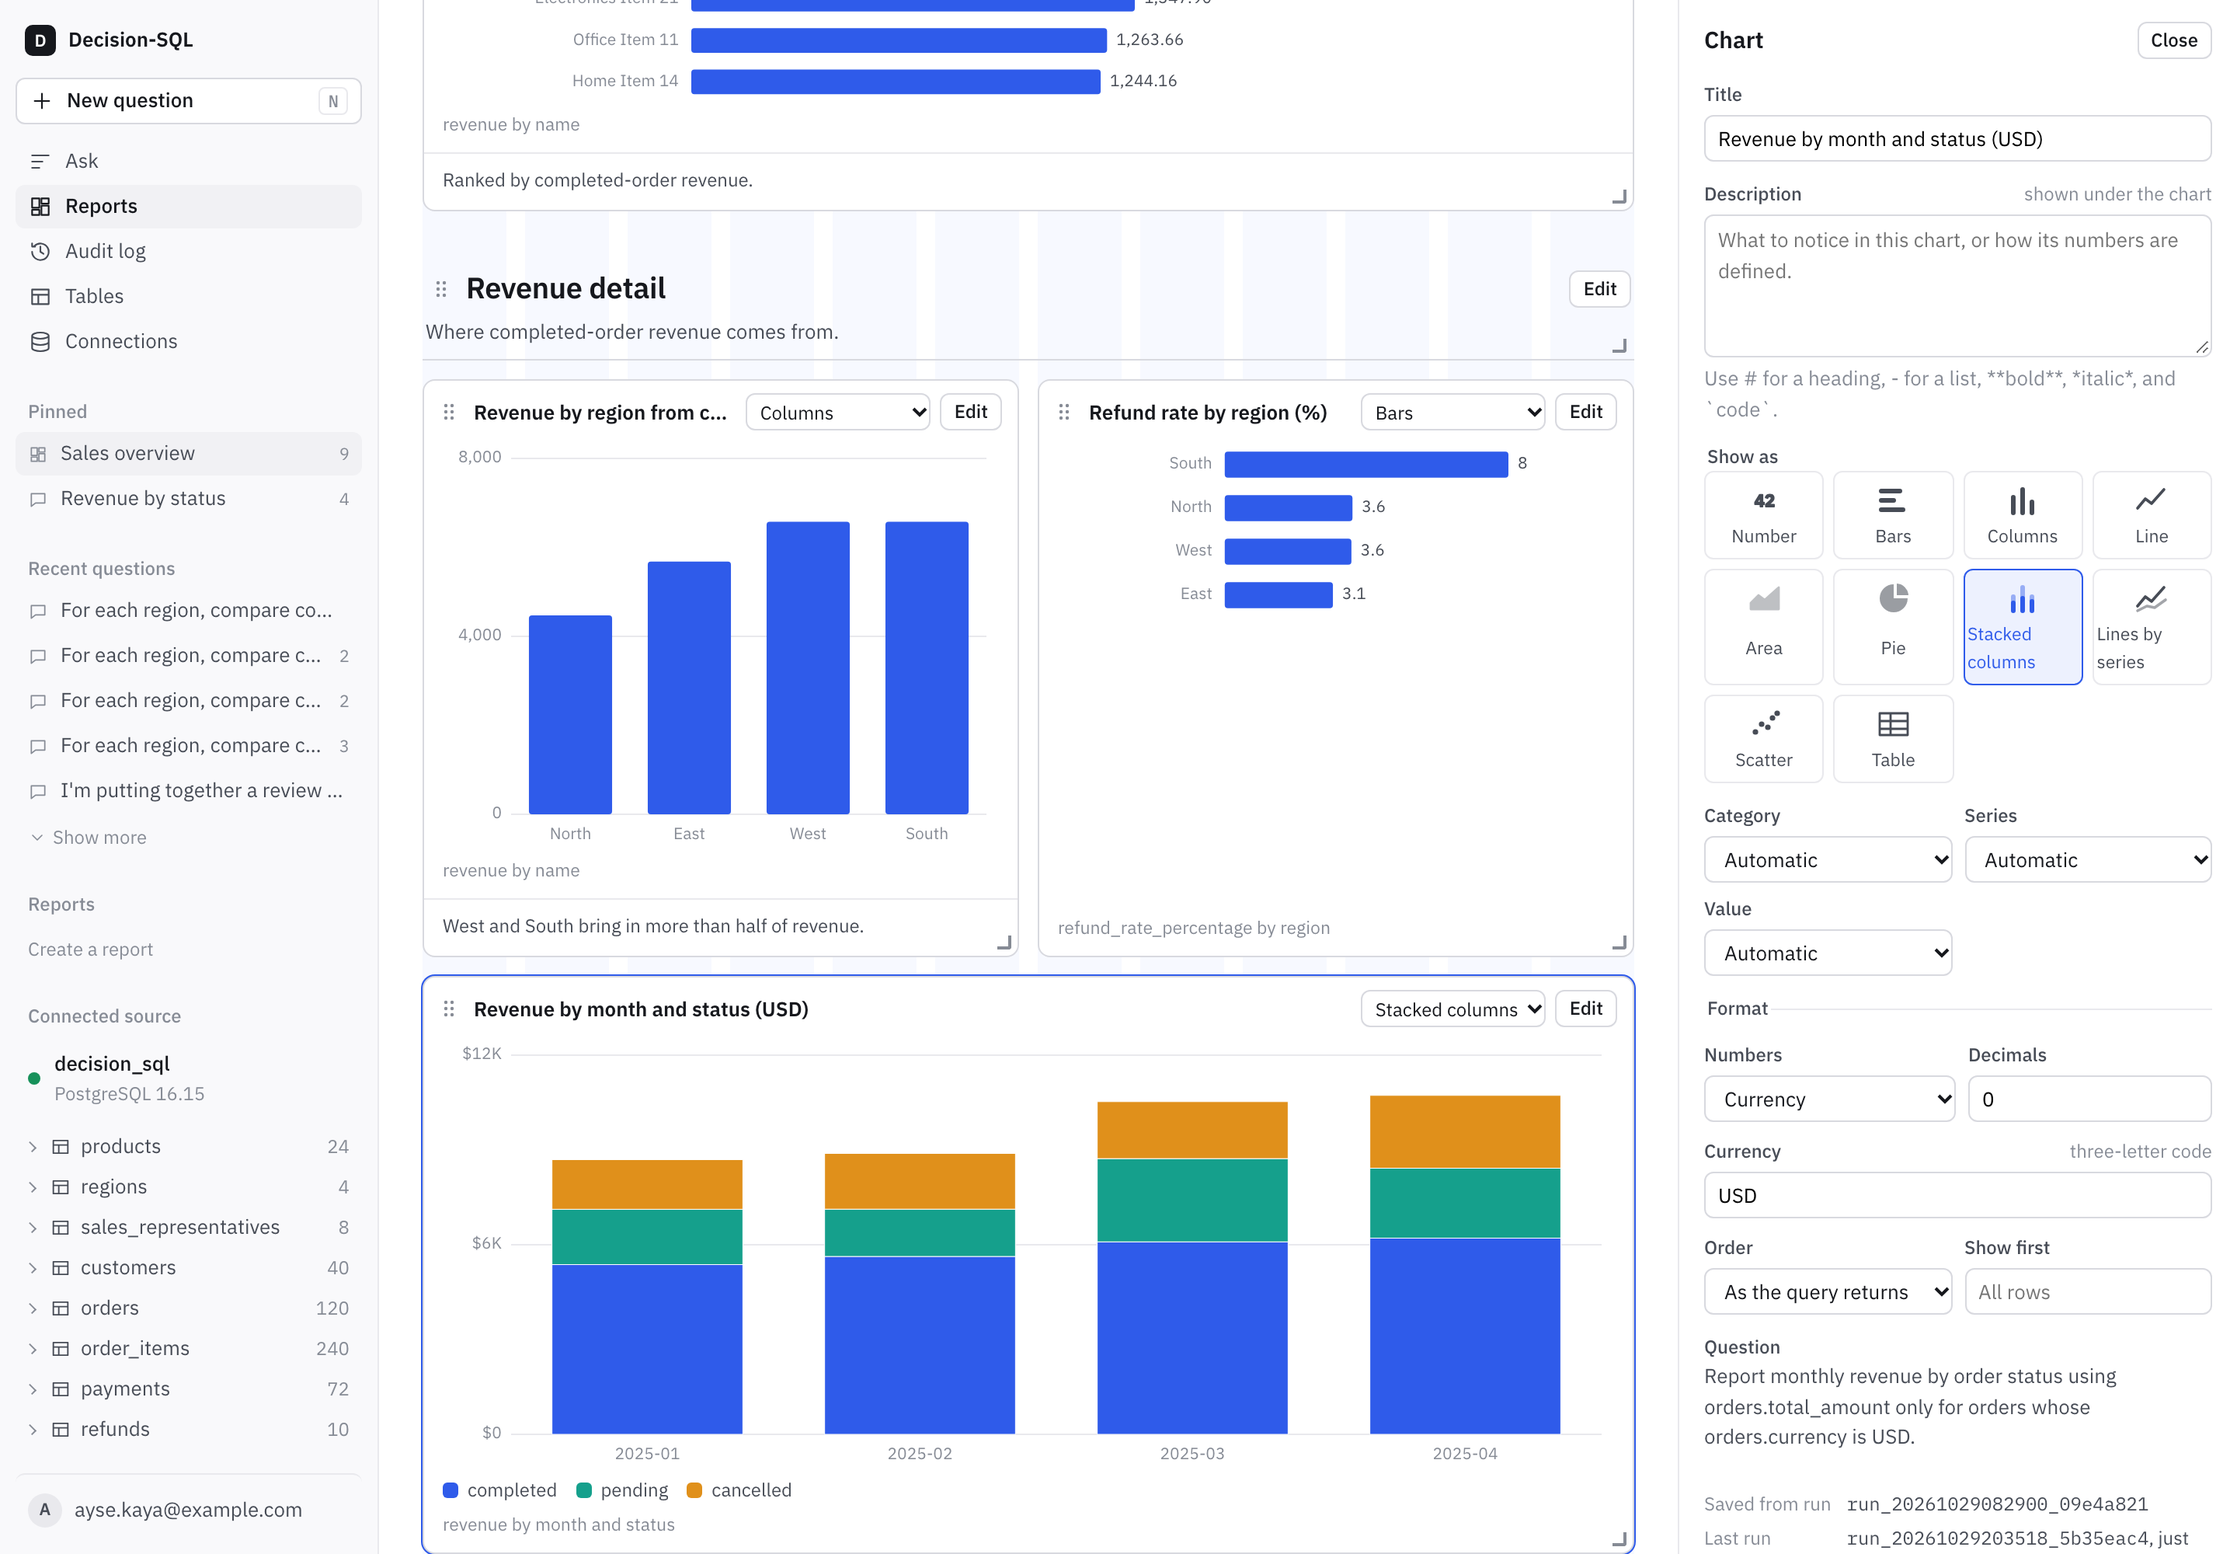
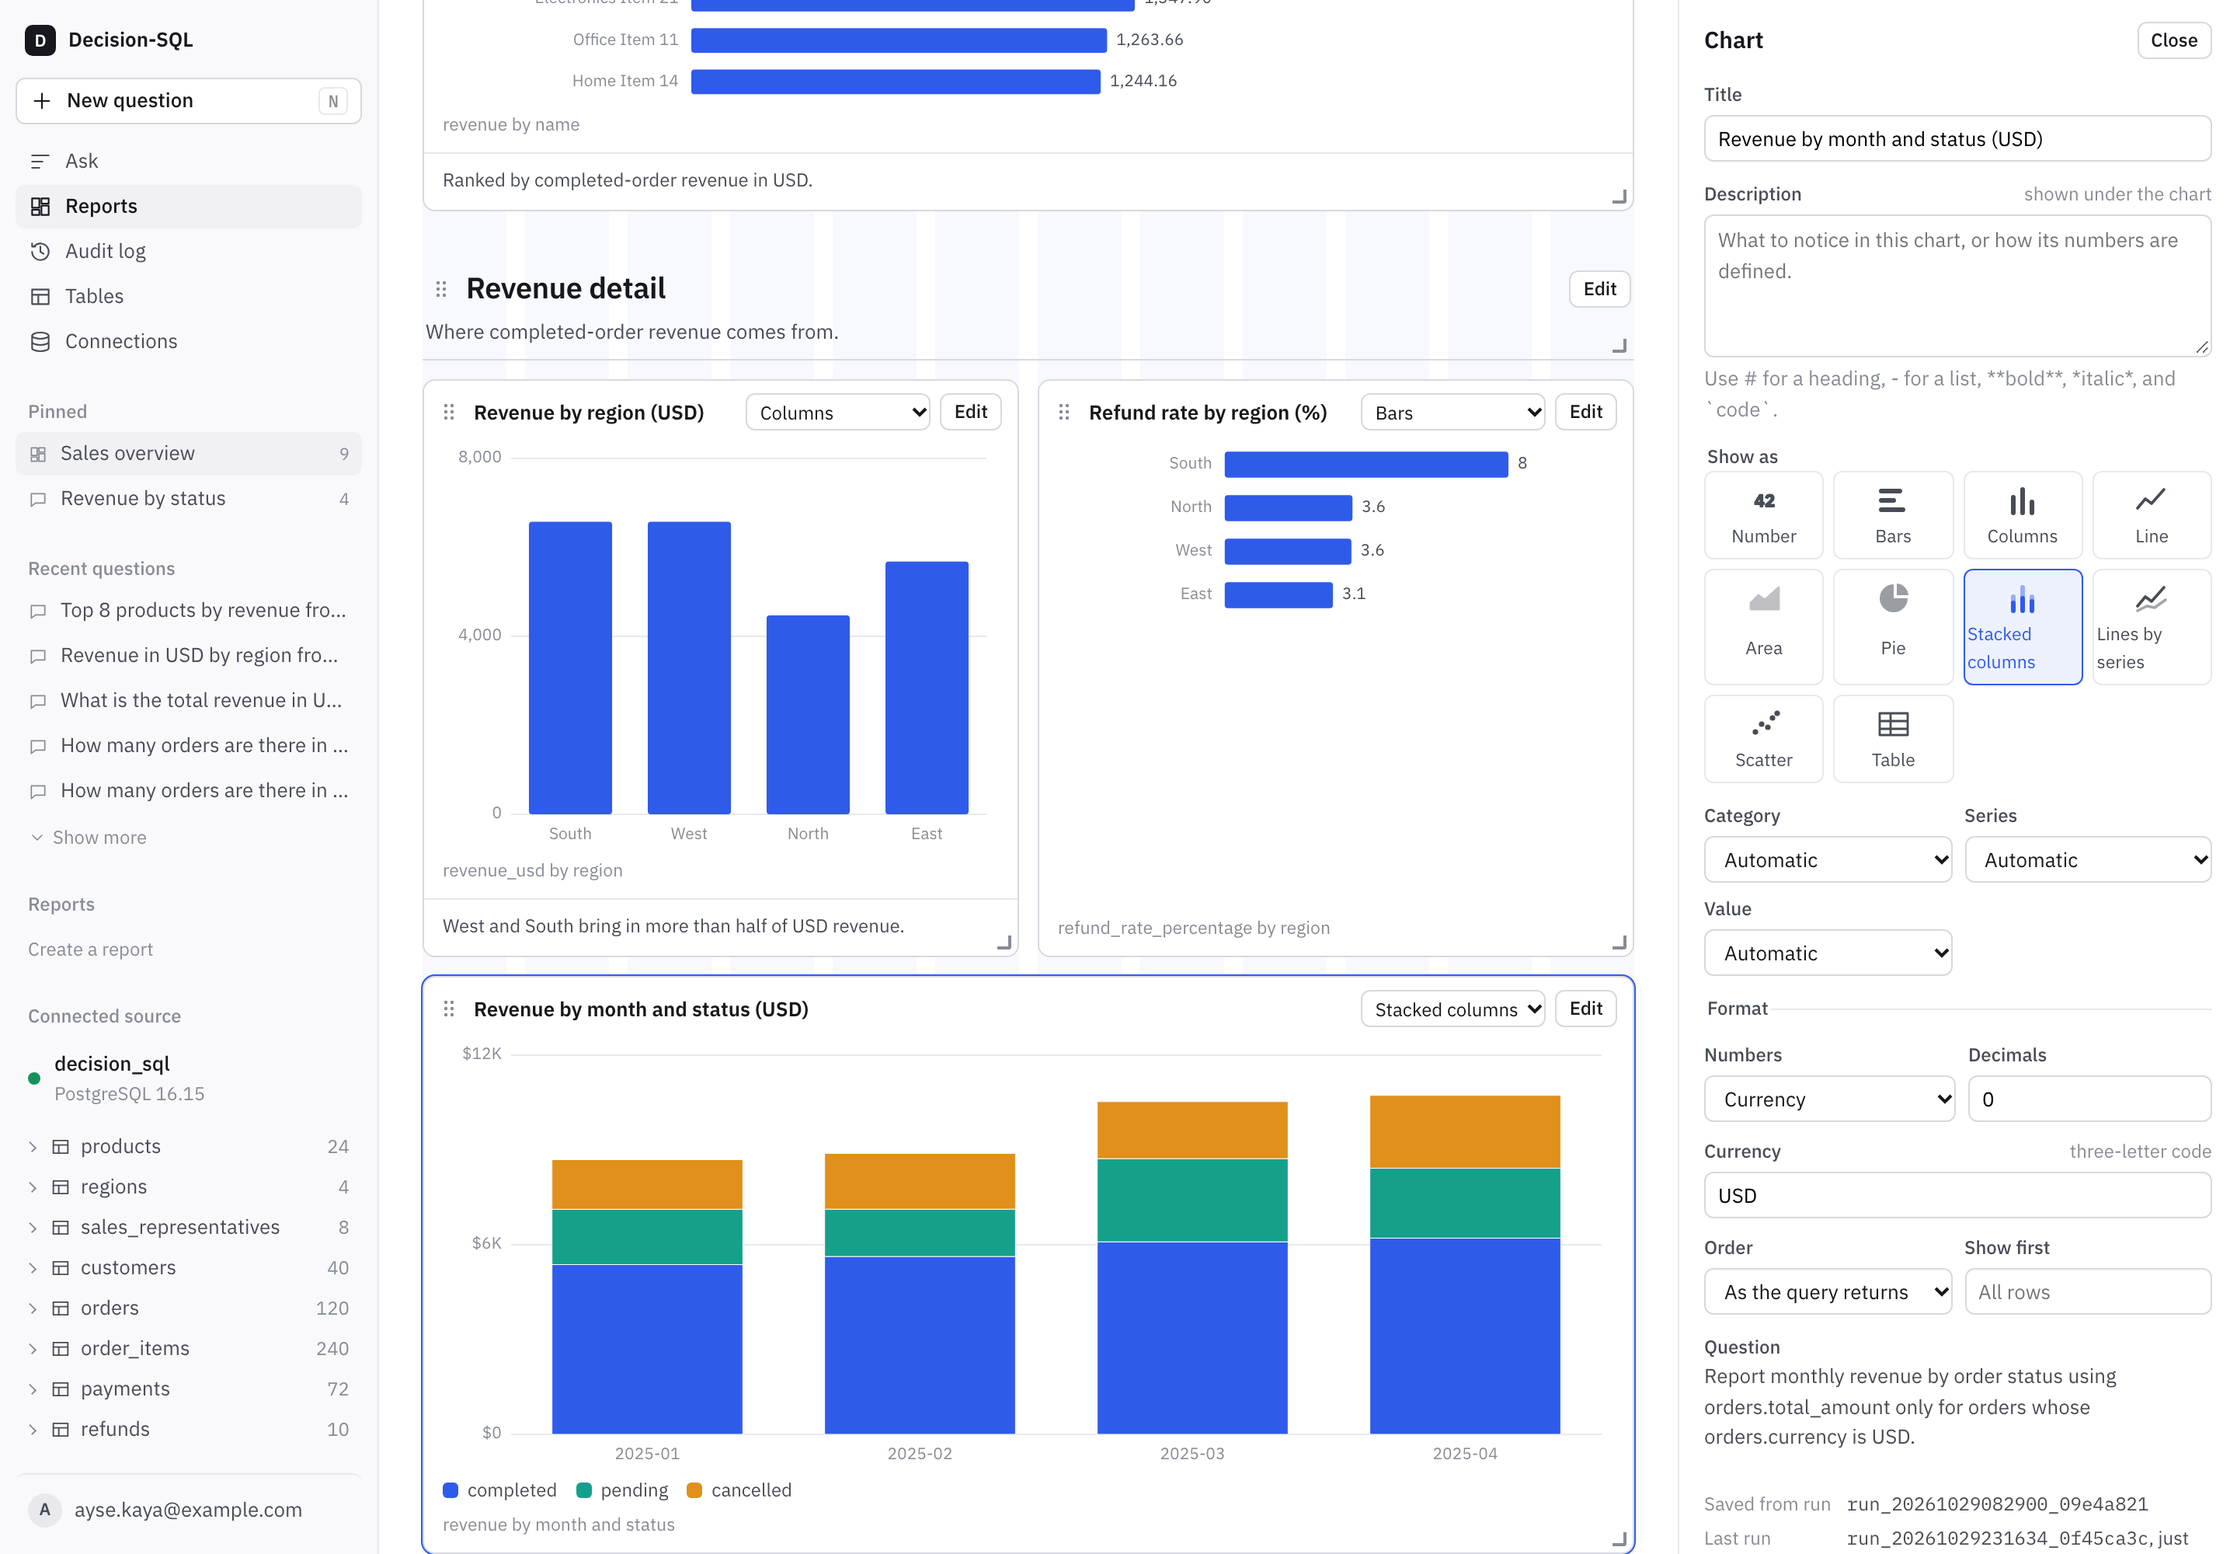
fix: require every table of a select to be joined on a relationship
CROSS JOIN, comma joins, ON TRUE and range joins between physical tables
passed the join check because it only inspected equalities that were
present. Each SELECT scope now builds a connectivity graph from authorized
equalities (including an OR of them) and USING columns; a table left
unconnected is rejected as UNAUTHORIZED_JOIN, which the repair round can
fix. CTEs and derived tables need no relationship, and aliases of one
table count as that table.

The offline replay of 1448 executed queries from the audit log rejects
none of them. The statement timeout test now cross joins one table with
itself so it stays admissible.

The report screenshots show the revenue cards pinned to USD.

diff --git a/app/sql/policy.py b/app/sql/policy.py
@@ -276,7 +276,130 @@ class SQLPolicy:
                     self._join_message(left, right),
                     f"{left[0]}.{left[1]} = {right[0]}.{right[1]}",
                 )
+            unlinked = self._unlinked_tables(scope.expression, relations)
+            if unlinked is not None:
+                return self._reject(
+                    PolicyCode.UNAUTHORIZED_JOIN,
+                    self._unlinked_message(*unlinked),
+                    f"{unlinked[0]} x {unlinked[1]}",
+                )
         return None
+
+    def _unlinked_tables(
+        self, select: exp.Select, relations: dict[str, _Relation]
+    ) -> tuple[str, str] | None:
+        """Two tables of one SELECT that no authorized relationship joins, if any.
+
+        A CROSS JOIN, a comma list, ``ON TRUE``, or a range comparison pairs every
+        row of one table with rows of the other that no relationship relates. Each
+        table in the FROM list must therefore reach every other through equalities
+        ANDed into a WHERE or JOIN ... ON, an OR of such equalities between the same
+        two relations, or a ``USING`` column. Between two tables an equality must
+        follow an authorized relationship; one with a CTE or derived table counts,
+        because its columns are not traced. A CTE or derived table needs no link of
+        its own, so a one-row aggregate can still be cross joined, and aliases of
+        one table count as that table, as a table compared with itself is not
+        checked.
+        """
+        nodes = {
+            key: f"table:{relation.table.name.lower()}" if relation.table else f"derived:{key}"
+            for key, relation in relations.items()
+        }
+        tables = sorted({node for node in nodes.values() if node.startswith("table:")})
+        if len(tables) < 2:
+            return None
+        links: set[frozenset[str]] = set()
+        for condition in select.find_all(exp.EQ, exp.Or):
+            if condition.find_ancestor(exp.Select) is not select or not _conjunct(condition):
+                continue
+            pairs = [self._equality_link(relations, part) for part in _disjuncts(condition)]
+            if pairs and pairs[0] is not None and all(pair == pairs[0] for pair in pairs):
+                links.add(frozenset(nodes[key] for key in pairs[0]))
+        seen: list[str] = []
+        for node in self._from_nodes(select):
+            key = node.alias_or_name.lower()
+            if key not in relations:
+                continue
+            join = node.parent
+            using = (join.args.get("using") or ()) if isinstance(join, exp.Join) else ()
+            for column in using:
+                name = self._identifier_name(column.name)
+                for other in seen:
+                    if relations[other].has_column(name) and self._links(
+                        relations, (other, name), (key, name)
+                    ):
+                        links.add(frozenset((nodes[other], nodes[key])))
+            seen.append(key)
+        for table in tables[1:]:
+            if not _connected(tables[0], table, links):
+                return tables[0].removeprefix("table:"), table.removeprefix("table:")
+        return None
+
+    def _equality_link(
+        self, relations: dict[str, _Relation], node: exp.Expression
+    ) -> frozenset[str] | None:
+        """The two relations an equality joins, when it may join them."""
+        if not isinstance(node, exp.EQ):
+            return None
+        left = self._local_source(relations, node.left)
+        right = self._local_source(relations, node.right)
+        if left is None or right is None or left[0] == right[0]:
+            return None
+        if not self._links(relations, left, right):
+            return None
+        return frozenset((left[0], right[0]))
+
+    def _local_source(
+        self, relations: dict[str, _Relation], node: exp.Expression
+    ) -> tuple[str, str] | None:
+        """The FROM-list relation of this SELECT that a column belongs to, and the column."""
+        while isinstance(node, (exp.Cast, exp.Paren)):
+            node = node.this
+        if not isinstance(node, exp.Column):
+            return None
+        name = self._identifier_name(node.name)
+        qualifier = node.table.lower()
+        if qualifier:
+            return (qualifier, name) if qualifier in relations else None
+        owners = [key for key, relation in relations.items() if relation.has_column(name)]
+        return (owners[0], name) if len(owners) == 1 else None
+
+    def _links(
+        self, relations: dict[str, _Relation], left: tuple[str, str], right: tuple[str, str]
+    ) -> bool:
+        """Whether an equality between two relations' columns joins them."""
+        a, b = relations[left[0]].table, relations[right[0]].table
+        if a is None or b is None:
+            return True
+        if a.name.lower() == b.name.lower():
+            return True
+        return self._related((a.name.lower(), left[1]), (b.name.lower(), right[1]))
+
+    @staticmethod
+    def _from_nodes(select: exp.Select) -> list[exp.Expression]:
+        nodes: list[exp.Expression] = []
+        from_clause = select.args.get("from_")
+        if isinstance(from_clause, exp.From) and from_clause.this is not None:
+            nodes.append(from_clause.this)
+        nodes.extend(join.this for join in select.args.get("joins", ()) if join.this is not None)
+        return nodes
+
+    def _unlinked_message(self, a: str, b: str) -> str:
+        known = self._relationships(a, b)
+        if not known:
+            return (
+                f"The query reads {a} and {b} in the same SELECT with no authorized "
+                f"relationship joining them, so rows of {a} are paired with rows of {b} "
+                "that nothing relates. If the question needs them joined, report the "
+                "missing relationship; a value computed from one table belongs in a "
+                "subquery or CTE."
+            )
+        listed = "; ".join(f"{s}.{c} = {t}.{r}" for s, c, t, r in known)
+        return (
+            f"The query reads {a} and {b} in the same SELECT without joining them on "
+            f"their relationship, so rows are paired that nothing relates. Join them on "
+            f"{listed}."
+        )
 
     def _join_column(
         self, scope: Scope, relations: dict[str, _Relation], node: exp.Expression
@@ -561,8 +684,17 @@ class SQLPolicy:
         return PolicyRejection(code=code, message=message, object=object_name)
 
 
-def _conjunct(equality: exp.EQ) -> bool:
-    """Whether the equality is ANDed into a WHERE or a JOIN ... ON of its SELECT."""
+def _disjuncts(node: exp.Expression) -> list[exp.Expression]:
+    """The branches of an OR, with parentheses removed; a single condition otherwise."""
+    while isinstance(node, exp.Paren):
+        node = node.this
+    if isinstance(node, exp.Or):
+        return [*_disjuncts(node.left), *_disjuncts(node.right)]
+    return [node]
+
+
+def _conjunct(equality: exp.Expression) -> bool:
+    """Whether the condition is ANDed into a WHERE or a JOIN ... ON of its SELECT."""
     node: exp.Expression = equality
     while isinstance(node.parent, exp.And | exp.Paren):
         node = node.parent

diff --git a/tests/unit/test_sql_policy.py b/tests/unit/test_sql_policy.py
@@ -367,3 +367,44 @@ def test_an_equality_between_tables_already_joined_is_a_filter() -> None:
     for query in rejected:
         rejection = sql_policy.validate(parsed(query))
         assert rejection is not None and rejection.code is PolicyCode.UNAUTHORIZED_JOIN, query
+
+
+def test_every_table_of_a_select_must_be_joined_by_a_relationship() -> None:
+    sql_policy = policy()
+    allowed = (
+        "SELECT 1 FROM order_items oi JOIN orders o ON oi.order_id = o.id "
+        "JOIN customers c ON c.id = o.customer_id",
+        "SELECT 1 FROM customers c LEFT JOIN orders o ON o.customer_id = c.id",
+        "SELECT 1 FROM orders o, customers c WHERE c.id = o.customer_id",
+        # An OR of authorized equalities between the same two tables still joins them.
+        "SELECT 1 FROM orders o JOIN customers c ON (o.customer_id = c.id OR c.id = o.customer_id)",
+        # A one-row aggregate may be cross joined, and a CTE can carry the link.
+        "SELECT o.id FROM orders o CROSS JOIN (SELECT AVG(total_amount) AS a FROM orders) x "
+        "WHERE o.total_amount > x.a",
+        "WITH s AS (SELECT order_id FROM order_items) "
+        "SELECT 1 FROM orders o JOIN s ON s.order_id = o.id",
+        # Aliases of one table count as that table.
+        "SELECT 1 FROM orders a JOIN customers ca ON ca.id = a.customer_id "
+        "CROSS JOIN orders b JOIN customers cb ON cb.id = b.customer_id",
+        "SELECT 1 FROM orders a JOIN orders b USING (customer_id)",
+    )
+    for query in allowed:
+        assert sql_policy.validate(parsed(query)) is None, query
+
+    rejected = (
+        "SELECT o.id, oi.id FROM orders o CROSS JOIN order_items oi LIMIT 10",
+        "SELECT o.id FROM orders o, customers c",
+        "SELECT o.id FROM orders o JOIN customers c ON TRUE",
+        "SELECT o.id FROM orders o JOIN customers c ON o.id < c.id",
+        "SELECT o.id FROM orders o JOIN customers c ON o.customer_id = c.id OR TRUE",
+        "SELECT 1 FROM orders o JOIN customers c ON o.customer_id = c.id CROSS JOIN products p",
+        "SELECT 1 FROM orders o JOIN customers c USING (id)",
+    )
+    for query in rejected:
+        rejection = sql_policy.validate(parsed(query))
+        assert rejection is not None and rejection.code is PolicyCode.UNAUTHORIZED_JOIN, query
+
+    message = sql_policy.validate(parsed("SELECT o.id FROM orders o, customers c")).message  # type: ignore[union-attr]
+    assert "Join them on orders.customer_id = customers.id" in message
+    unrelated = sql_policy.validate(parsed("SELECT 1 FROM products p CROSS JOIN customers c"))
+    assert unrelated is not None and "no authorized relationship" in unrelated.message

diff --git a/tests/integration/test_sql_safety_postgres.py b/tests/integration/test_sql_safety_postgres.py
@@ -305,11 +305,12 @@ def test_statement_timeout_is_enforced(service: SqlSafetyService) -> None:
 
     result = run_candidate(
         timed,
+        # Aliases of one table are not checked for a join, so this stays admissible.
         """SELECT COUNT(*)
            FROM orders a
-           CROSS JOIN order_items b
+           CROSS JOIN orders b
            CROSS JOIN orders c
-           CROSS JOIN order_items d""",
+           CROSS JOIN orders d""",
     )
 
     assert result.status is SqlSafetyStatus.EXECUTION_ERROR

diff --git a/docs/architecture.md b/docs/architecture.md
@@ -214,6 +214,10 @@ An `ANSWER` is still only a proposal. `SqlSafetyService` turns it into a
   correlated subquery, must match a foreign key or declared relationship:
   `orders.id = customers.id` is rejected even though both tables are
   authorized, and the rejection names the relationships that do link them.
+  Every table of a SELECT must also reach the others through such equalities
+  (ANDed, an `OR` of them between the same two tables, or `USING`), so a
+  `CROSS JOIN`, a comma list, `ON TRUE`, or a range join between two tables
+  is rejected the same way. A CTE or derived table needs no link of its own.
 - **Authority**: every referenced relation must be in the request's context.
 - **Grain**: aggregates must not fan out across a parent-child join. Grain
   facts come from the source catalog itself: tables with a primary key are
@@ -277,7 +281,8 @@ audit log keeps both the model's SQL and the text the database received
 - Columns of CTEs and derived tables are not traced to their source tables.
   A fan-out hidden inside a CTE, or a CTE column joined on a non-key, passes
   the grain and join checks.
-- A table joined with itself is not checked against relationships.
+- A table joined with itself is not checked against relationships, so two
+  aliases of one table may be cross joined.
 - The value check covers `column = 'text'`, `<>`, and `IN` lists on bare
   columns; `LIKE` and functions such as `LOWER(column)` are not checked.
   Columns whose values are not all known are looked up only after a query

diff --git a/docs/security.md b/docs/security.md
@@ -66,6 +66,11 @@ tests.
   between them ANDed into the same SELECT (such as `trans.date = loan.date`) only
   narrows the authorized pairs and is allowed; under `OR`, or with the link only
   in an enclosing SELECT, it is still rejected.
+- Every table in a SELECT's FROM list must be joined to the others along such
+  relationships: a `CROSS JOIN`, a comma list, `ON TRUE`, or a range
+  comparison between two tables is rejected. A CTE or derived table needs no
+  link, so a one-row aggregate can be cross joined, and aliases of one table
+  count as that table.
 - Aggregates that would fan out across a parent-child join are rejected,
   including `SUM(DISTINCT ...)` over such a join.
 - `EXPLAIN` runs before execution; plan rows and plan cost must stay under
